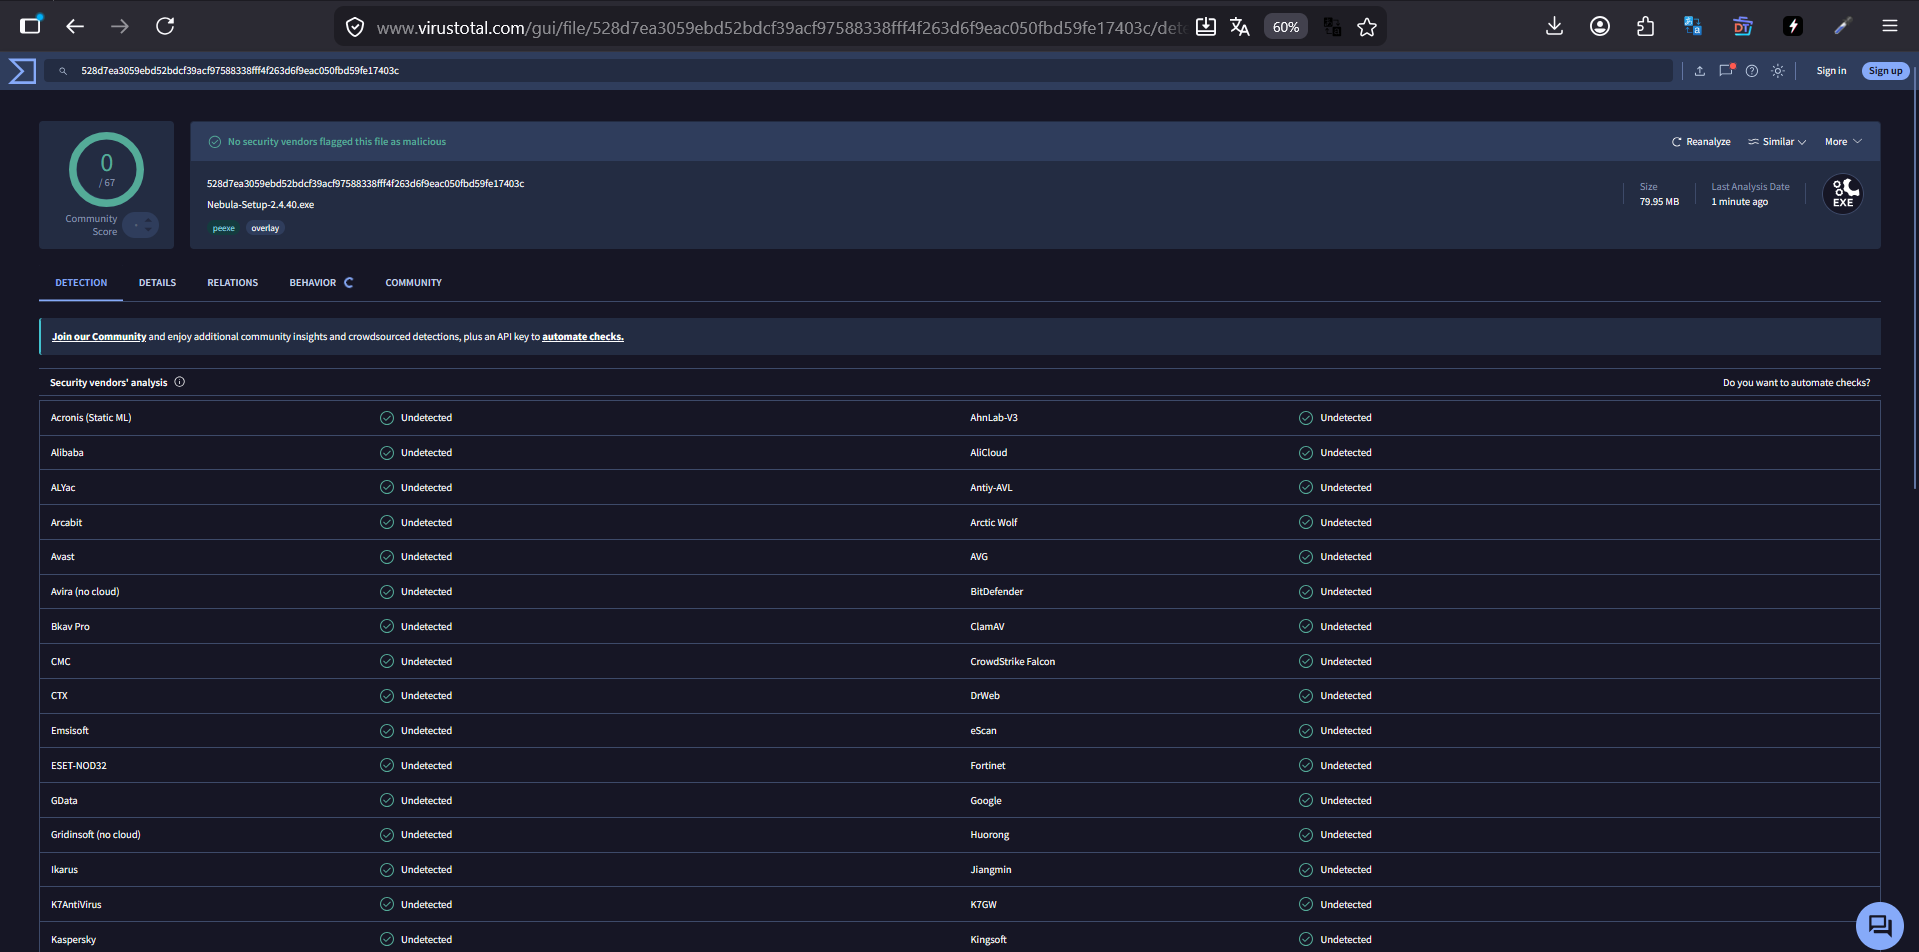
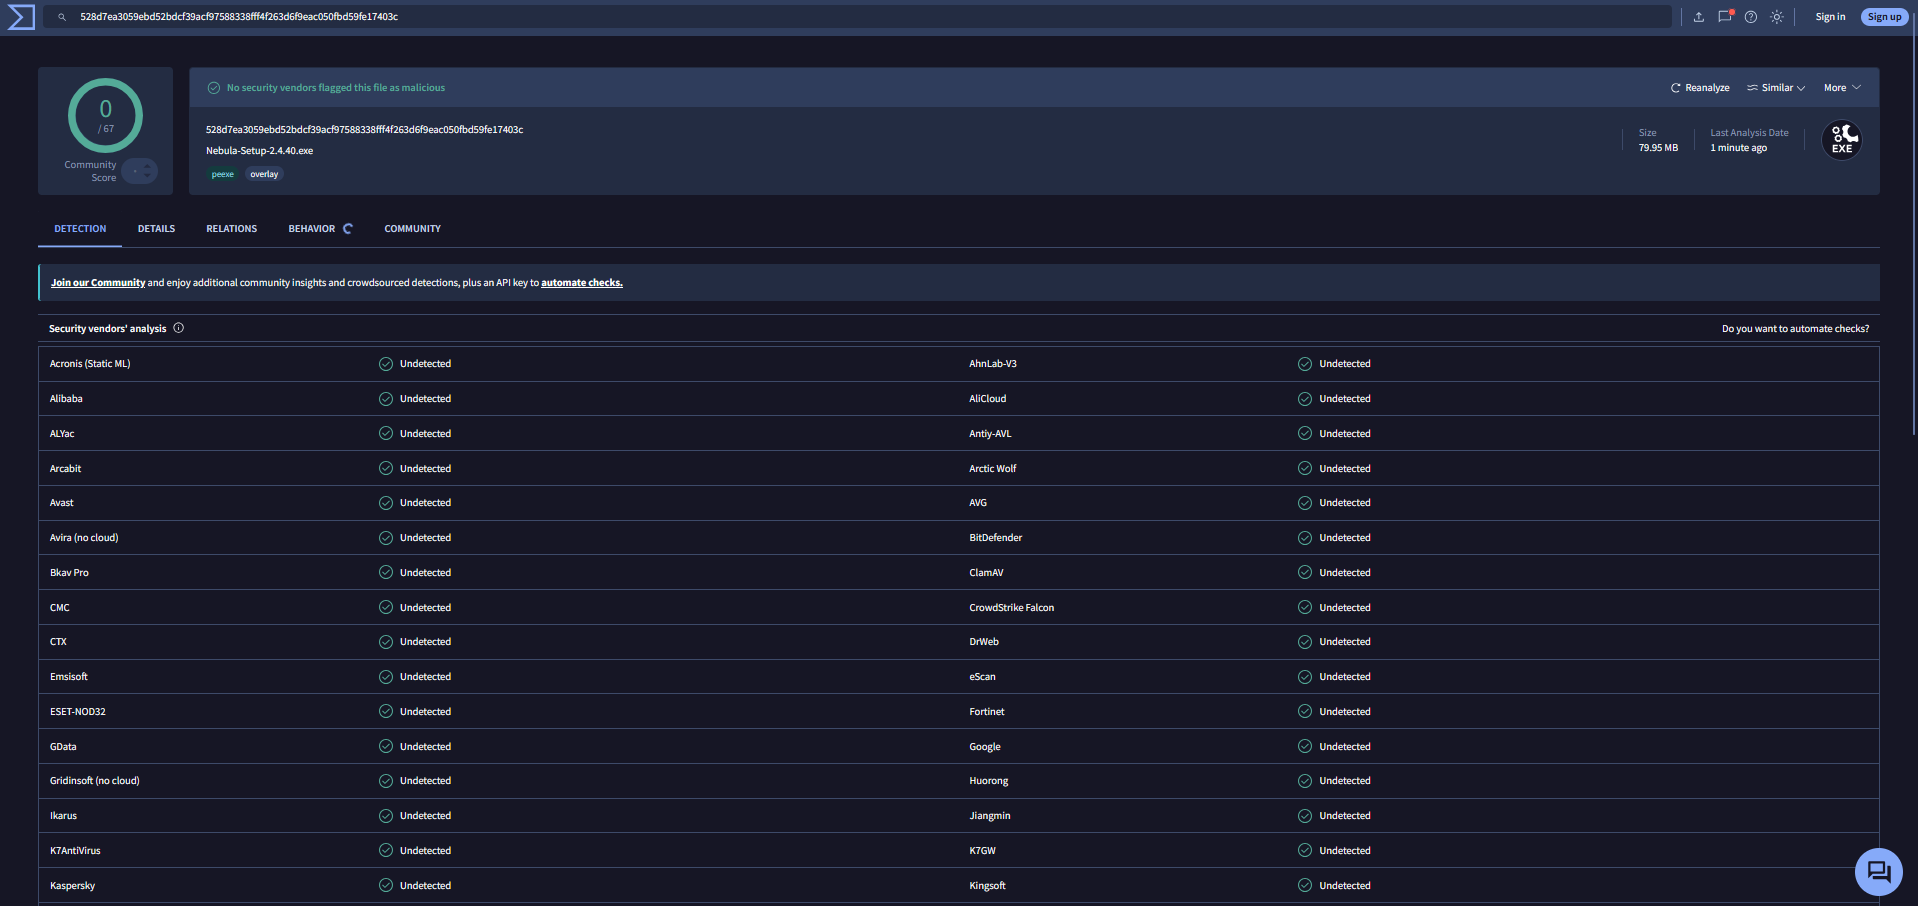
v2.5.0 - accent-driven backdrop, glass-off fixes, roomier cards; docs
- Backdrop blobs are now tinted from the accent family, so changing the
  accent colour visibly restyles the whole background.
- Liquid Glass OFF: status pills no longer lose their colour (the "new"/
  "update" badges stay readable; only the quiet "installed" pill goes dark).
- Featured hero and pack cards made taller / less squished: hero 202px,
  cards 248px with a 52% cover and a 2-line description = more organic.
- README: embedded launcher screenshot + VirusTotal 0/67 screenshot;
  removed the SignPath code-signing section (application was rejected).

diff --git a/src/renderer/styles.css b/src/renderer/styles.css
@@ -72,13 +72,14 @@ button:focus:not(:focus-visible), input:focus:not(:focus-visible) { outline: non
   mix-blend-mode: multiply; }
 .blob { position: absolute; filter: blur(72px); opacity: .5; mix-blend-mode: screen;
   will-change: transform, border-radius; }
-.blob-a { width: 620px; height: 560px; left: -8%; top: -12%; background: radial-gradient(circle, var(--accent), transparent 68%);
+/* Blobs are tinted from the accent family so the whole backdrop follows the theme accent. */
+.blob-a { width: 640px; height: 580px; left: -8%; top: -12%; background: radial-gradient(circle, var(--accent), transparent 68%); opacity: .55;
   border-radius: 60% 40% 55% 45% / 55% 50% 50% 45%; animation: float1 30s ease-in-out infinite alternate, morph 18s ease-in-out infinite alternate; }
-.blob-b { width: 560px; height: 520px; right: -10%; top: 2%; background: radial-gradient(circle, #35c4b0, transparent 68%); opacity: .34;
+.blob-b { width: 560px; height: 520px; right: -10%; top: 2%; background: radial-gradient(circle, var(--accent-hover), transparent 68%); opacity: .42;
   border-radius: 45% 55% 45% 55% / 50% 45% 55% 50%; animation: float2 38s ease-in-out infinite alternate, morph 22s ease-in-out infinite alternate; }
-.blob-c { width: 640px; height: 600px; left: 38%; bottom: -26%; background: radial-gradient(circle, var(--accent2), transparent 70%); opacity: .26;
+.blob-c { width: 660px; height: 620px; left: 36%; bottom: -26%; background: radial-gradient(circle, var(--accent-text), transparent 70%); opacity: .3;
   border-radius: 55% 45% 50% 50% / 45% 55% 45% 55%; animation: float3 44s ease-in-out infinite alternate, morph 26s ease-in-out infinite alternate; }
-.blob-d { width: 420px; height: 420px; left: 8%; bottom: -12%; background: radial-gradient(circle, #7bd67a, transparent 70%); opacity: .28;
+.blob-d { width: 440px; height: 440px; left: 8%; bottom: -14%; background: radial-gradient(circle, var(--accent), transparent 70%); opacity: .34;
   border-radius: 50% 50% 45% 55% / 55% 45% 55% 45%; animation: float2 34s ease-in-out infinite alternate-reverse, morph 20s ease-in-out infinite alternate; }
 @keyframes float1 { to { transform: translate(70px, 50px) scale(1.15); } }
 @keyframes float2 { to { transform: translate(-60px, 40px) scale(1.1); } }
@@ -214,7 +215,7 @@ button:focus:not(:focus-visible), input:focus:not(:focus-visible) { outline: non
 .dot.active { width: 22px; border-radius: 999px; background: var(--accent); border-color: transparent; }
 
 /* Featured ("main") pack hero */
-.featured-hero { position: relative; height: 172px; flex-shrink: 0; border-radius: var(--radius); overflow: hidden; cursor: pointer; background: var(--surface); border: 1px solid var(--glass-brd); box-shadow: var(--shadow-sm), var(--glass-hi); transition: transform .2s cubic-bezier(.2,.7,.3,1), border-color .2s, box-shadow .2s; animation: cardIn .4s cubic-bezier(.2,.7,.3,1) backwards; }
+.featured-hero { position: relative; height: 202px; flex-shrink: 0; border-radius: var(--radius); overflow: hidden; cursor: pointer; background: var(--surface); border: 1px solid var(--glass-brd); box-shadow: var(--shadow-sm), var(--glass-hi); transition: transform .2s cubic-bezier(.2,.7,.3,1), border-color .2s, box-shadow .2s; animation: cardIn .4s cubic-bezier(.2,.7,.3,1) backwards; }
 .featured-hero::before { content: ''; position: absolute; inset: 0; z-index: 1; pointer-events: none; border-radius: inherit; background: var(--sheen); mix-blend-mode: soft-light; }
 .featured-hero:hover { transform: translateY(-3px); box-shadow: 0 24px 54px rgba(0,0,0,.52), var(--glass-hi); }
 .featured-hero:active { transform: translateY(-1px) scale(.996); }
@@ -235,12 +236,13 @@ button:focus:not(:focus-visible), input:focus:not(:focus-visible) { outline: non
 .fh-detail:active { transform: scale(.97); }
 .rest-label { font-size: 11.5px; font-weight: 700; text-transform: uppercase; letter-spacing: 1.2px; color: var(--muted); }
 
-/* Compact carousel when a featured hero is present (fixed window height) */
-.home.has-featured { gap: 14px; }
-.home.has-featured .stage { max-height: 250px; }
-.home.has-featured .card { height: 230px; min-height: 0; max-height: 230px; }
-.home.has-featured .card-img { height: 44%; }
-.home.has-featured .card-desc { display: none; }
+/* Carousel when a featured hero is present: tighten chrome, keep cards tall/organic */
+.home.has-featured { gap: 12px; padding-top: 20px; padding-bottom: 16px; }
+.home.has-featured .home-head h1 { font-size: 24px; }
+.home.has-featured .home-sub { font-size: 12.5px; margin-top: 2px; }
+.home.has-featured .card { height: 248px; min-height: 0; max-height: 248px; }
+.home.has-featured .card-img { height: 52%; }
+.home.has-featured .card-desc { -webkit-line-clamp: 2; }
 
 /* Empty */
 .empty { flex: 1; display: flex; flex-direction: column; align-items: center; justify-content: center; gap: 15px; text-align: center; padding: 24px; }
@@ -508,7 +510,8 @@ input[type="color"]::-webkit-color-swatch-wrapper { padding: 0; }
 .no-glass .spec, .no-glass .set-card, .no-glass .card-status, .no-glass input, .no-glass select, .no-glass textarea {
   backdrop-filter: none !important; -webkit-backdrop-filter: none !important;
 }
-.no-glass .card-status { background: rgba(10, 14, 12, 0.85); }
+/* only the quiet "installed" pill needs a solid dark bg; new/update keep their colour */
+.no-glass .card-status.ok { background: rgba(10, 14, 12, 0.9); }
 /* opaque replacements for the hardcoded translucent backgrounds */
 .no-glass .account-menu { background: var(--surface-2); }
 .no-glass .tabs { background: var(--surface); }

diff --git a/README.md b/README.md
@@ -14,6 +14,8 @@ launcher sees them right away and installs them in one click.
 > [Using your own repository](#using-your-own-repository)). No part of it is tied to
 > 3adrypanka beyond the default repository URL.
 
+![Nebula Launcher](docs/launcher.png)
+
 ## ⚠️ "Windows protected your PC" (SmartScreen) — це не вірус / it is not a virus
 
 **🇺🇦 Українською.** Під час першого запуску Windows може показати синє вікно
@@ -186,21 +188,6 @@ actions you ask for, it contacts:
 
 Nothing above is initiated on the developer's behalf — each request exists only to install,
 update or launch what you asked for.
-
-## Code signing policy
-
-Free code signing for Windows binaries is provided by [SignPath.io](https://signpath.io),
-with a certificate issued by the [SignPath Foundation](https://signpath.org).
-
-- **Roles**
-  - *Author / Reviewer / Approver*: [mushbarry](https://github.com/mushraisin) (project owner
-    and sole maintainer).
-- **Process**: releases are built from this public repository by
-  [GitHub Actions](.github/workflows/build.yml) on a tagged commit. Every signing request is
-  reviewed and approved manually before the artifact is signed.
-- **Privacy**: this program will not transfer any information to other networked systems
-  unless specifically requested by the user or the person installing or operating it.
-  See [Privacy](#privacy) for the full statement.
 
 ## License
 